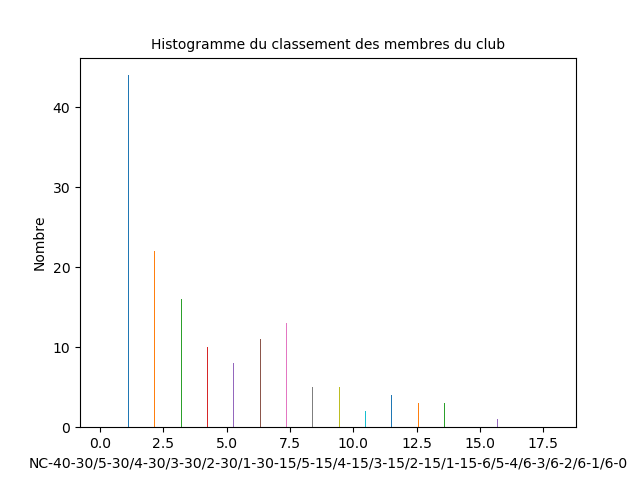
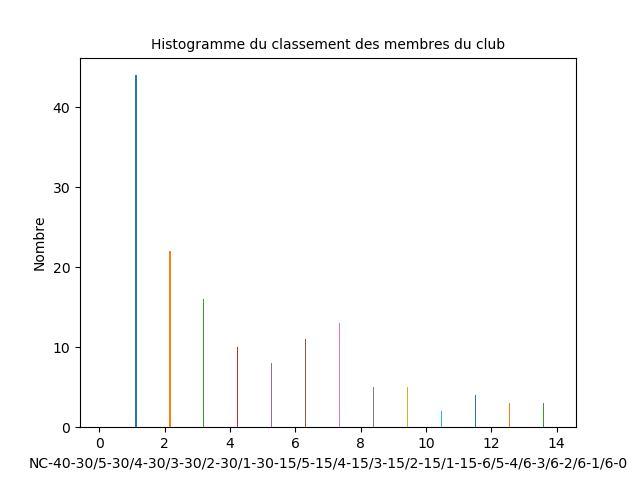
v finale

diff --git a/Excel_club_de_tennis/Excel_club_de_tennis.py b/Excel_club_de_tennis/Excel_club_de_tennis.py
@@ -156,8 +156,8 @@ Voir test unitaire
 plt.ylabel('Nombre')
 plt.xlabel('Valeurs à ignorer')
 plt.title('Histogramme des effectifs par sexe')
-plt.savefig('../data/histsexe')
 plt.legend()
+plt.savefig('../data/histsexe')
 plt.show()
 
 
@@ -182,9 +182,6 @@ for i in range (a):
 		adulte=adulte+1
 	else:
 		pass
-"""Programme qui permet de creer les catégories
-A faire !!!!!!!!!!!!!!!!!!!!!!!!!!!!!!!!!!!!!!!!!!!!!!!!!!!!!!!!!!!!!!!!!!!!!!!!!!!!!!!!!!!!!!!!!!
-"""
 
 print('nombre mini : ',mini)
 print('nombre poussin : ',poussin)
@@ -199,12 +196,11 @@ plt.pie(sizes, labels=labels, colors=colors,
         autopct='%1.1f%%', shadow=True, startangle=90)
 plt.axis('equal')
 plt.title('Camembert des effectifs par catégories', fontsize=10)
-plt.savefig('../data/graphage.png')
 plt.legend()
+plt.savefig('../data/graphage.png')
 plt.show()
 efficace=mini+poussin+junior+adulte
 """La variable efficace permet d'afficher le nombre d'effectif dans l'html"""
-
 
 
 
@@ -351,7 +347,7 @@ for loop in range (c16):
 for loop in range (c0):
 	ch0.append(18)
 data = [nch, ch40, ch305, ch304, ch303, ch302, ch301, ch30, ch155, ch154, ch153, ch152, ch151, ch15, ch56, ch46, ch36, ch26, ch16, ch0]
-plt.hist(data, bins = [0,1,2,3,4,5,6,7,8,9,10,11,12,13,14,15,16,17,18])
+plt.hist(data, bins = range(15))
 plt.title('Histogramme du classement des membres du club', fontsize=10)
 plt.xlabel('NC-40-30/5-30/4-30/3-30/2-30/1-30-15/5-15/4-15/3-15/2-15/1-15-6/5-4/6-3/6-2/6-1/6-0')
 plt.ylabel('Nombre')
@@ -381,8 +377,8 @@ plt.pie(sizes, labels=labels, colors=colors,
         autopct='%1.1f%%', shadow=True, startangle=90)
 plt.axis('equal')
 plt.title('Camembert de la répartition par commune', fontsize=10)
-plt.savefig('../data/graphville.png')
 plt.legend()
+plt.savefig('../data/graphville.png')
 plt.show()
 
 
